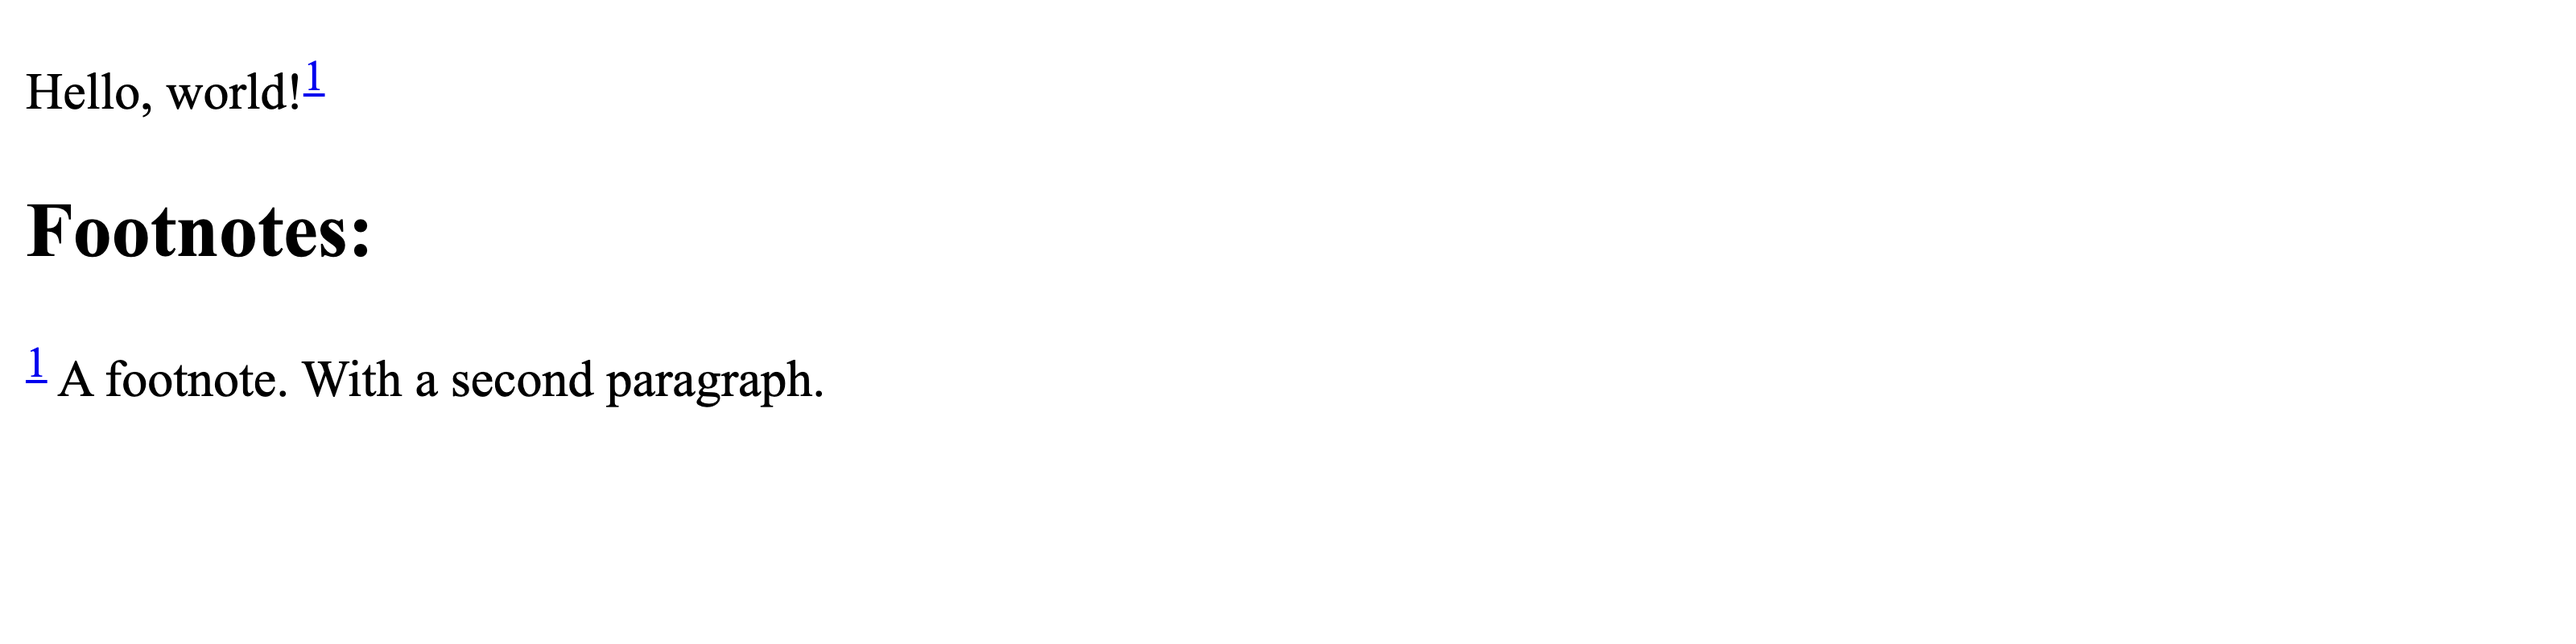
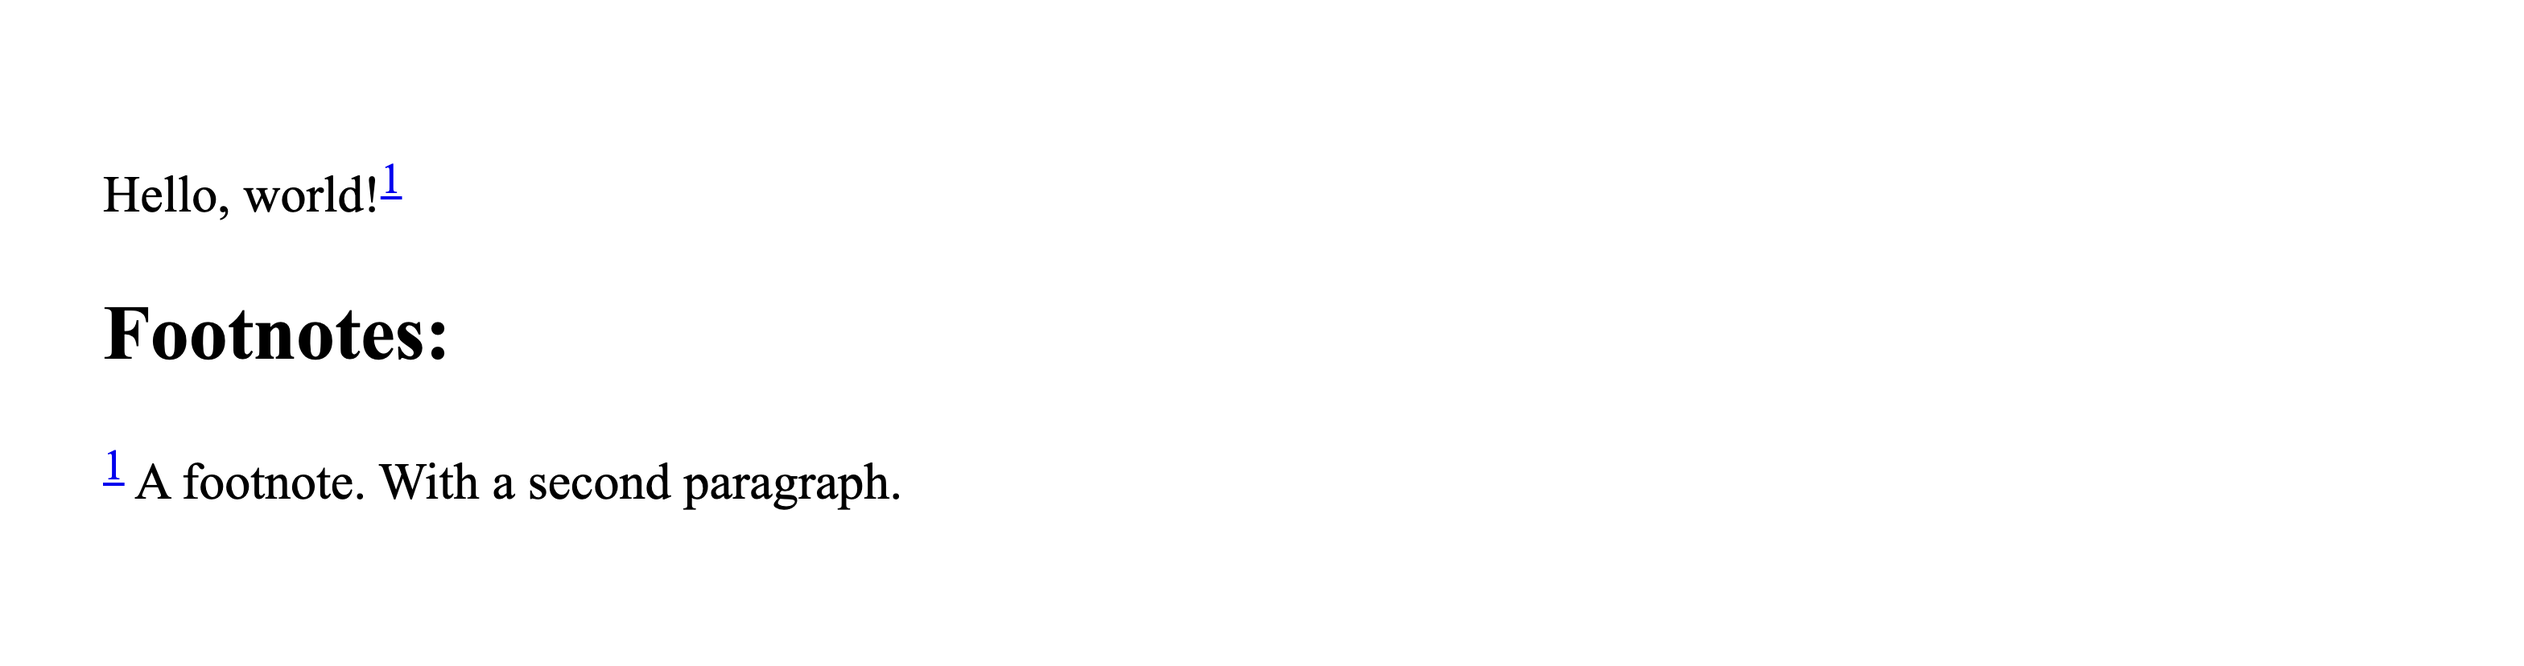
Add padding to screenshots

diff --git a/scripts/screenshots.js b/scripts/screenshots.js
@@ -12,10 +12,16 @@ const puppeteer = require('puppeteer');
   });
 
   await page.goto(`file://${__dirname}/../test/fixtures/footnote.html`);
-  await page.screenshot({path: "./before.png"});
+  await page.waitForSelector('body');
+  body = await page.$('body');
+  await page.evaluate(() => { document.querySelector('body').style.padding = '32px'; });
+  await body.screenshot({path: "./before.png"});
 
   await page.goto(`file://${__dirname}/../test/fixtures/footnote-2.html`);
-  await page.screenshot({path: "./after.png"});
+  await page.waitForSelector('body');
+  body = await page.$('body');
+  await page.evaluate(() => { document.querySelector('body').style.padding = '32px'; });
+  await body.screenshot({path: "./after.png"});
 
   await page.close();
   await browser.close();
